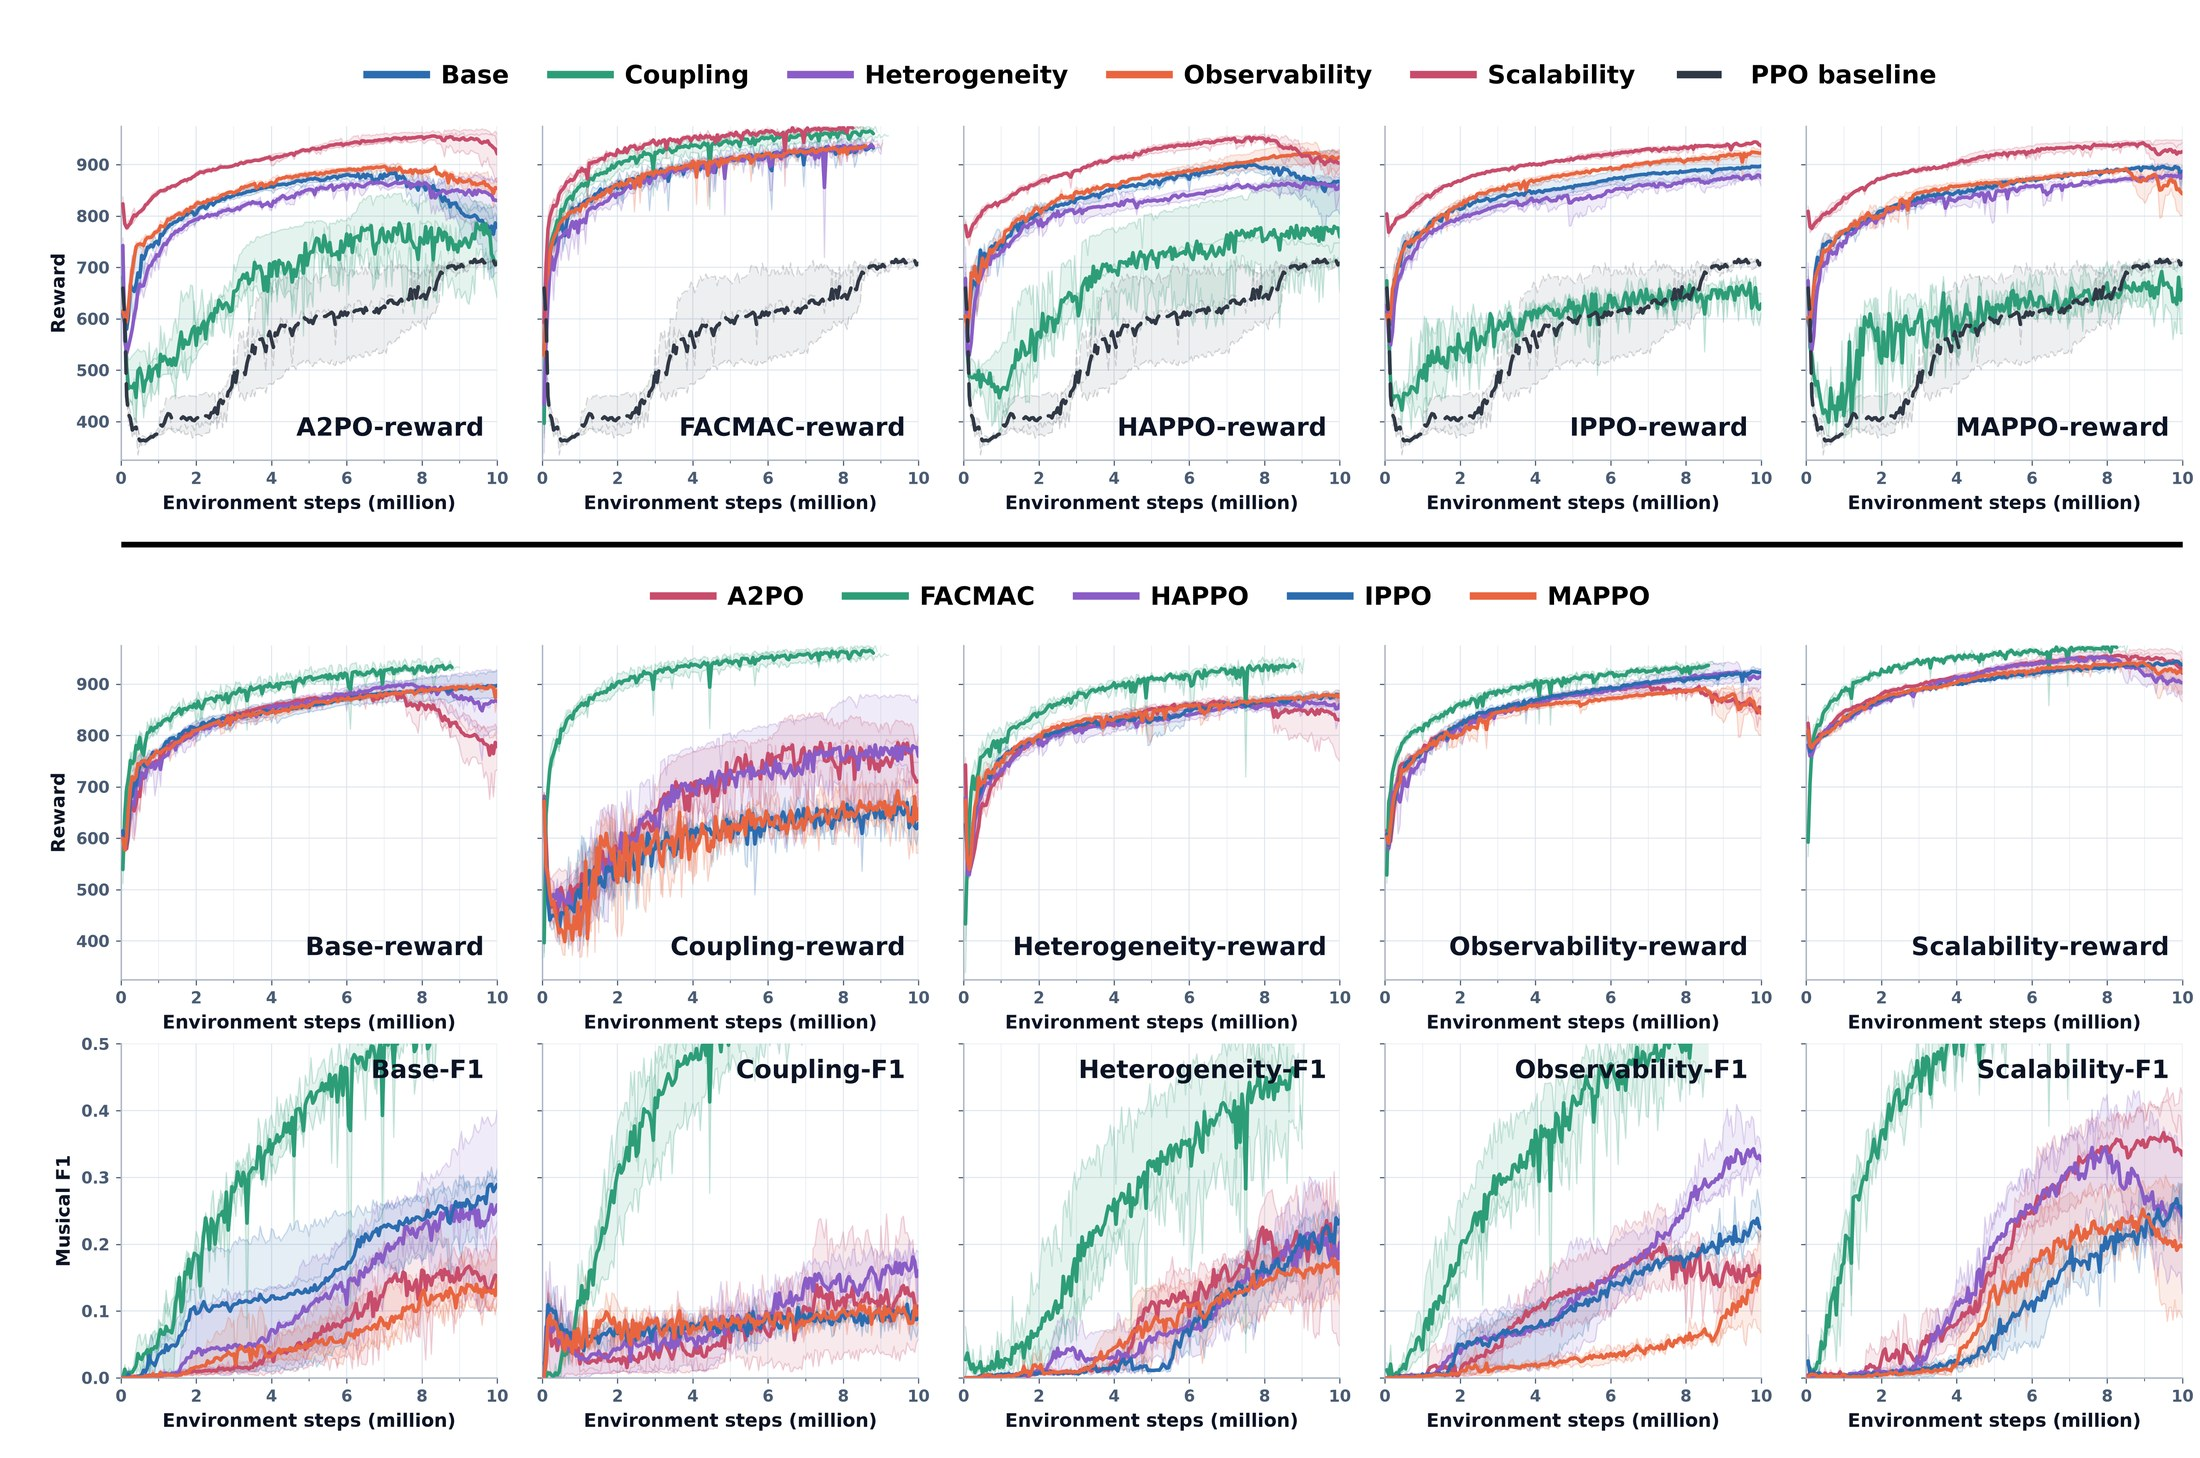
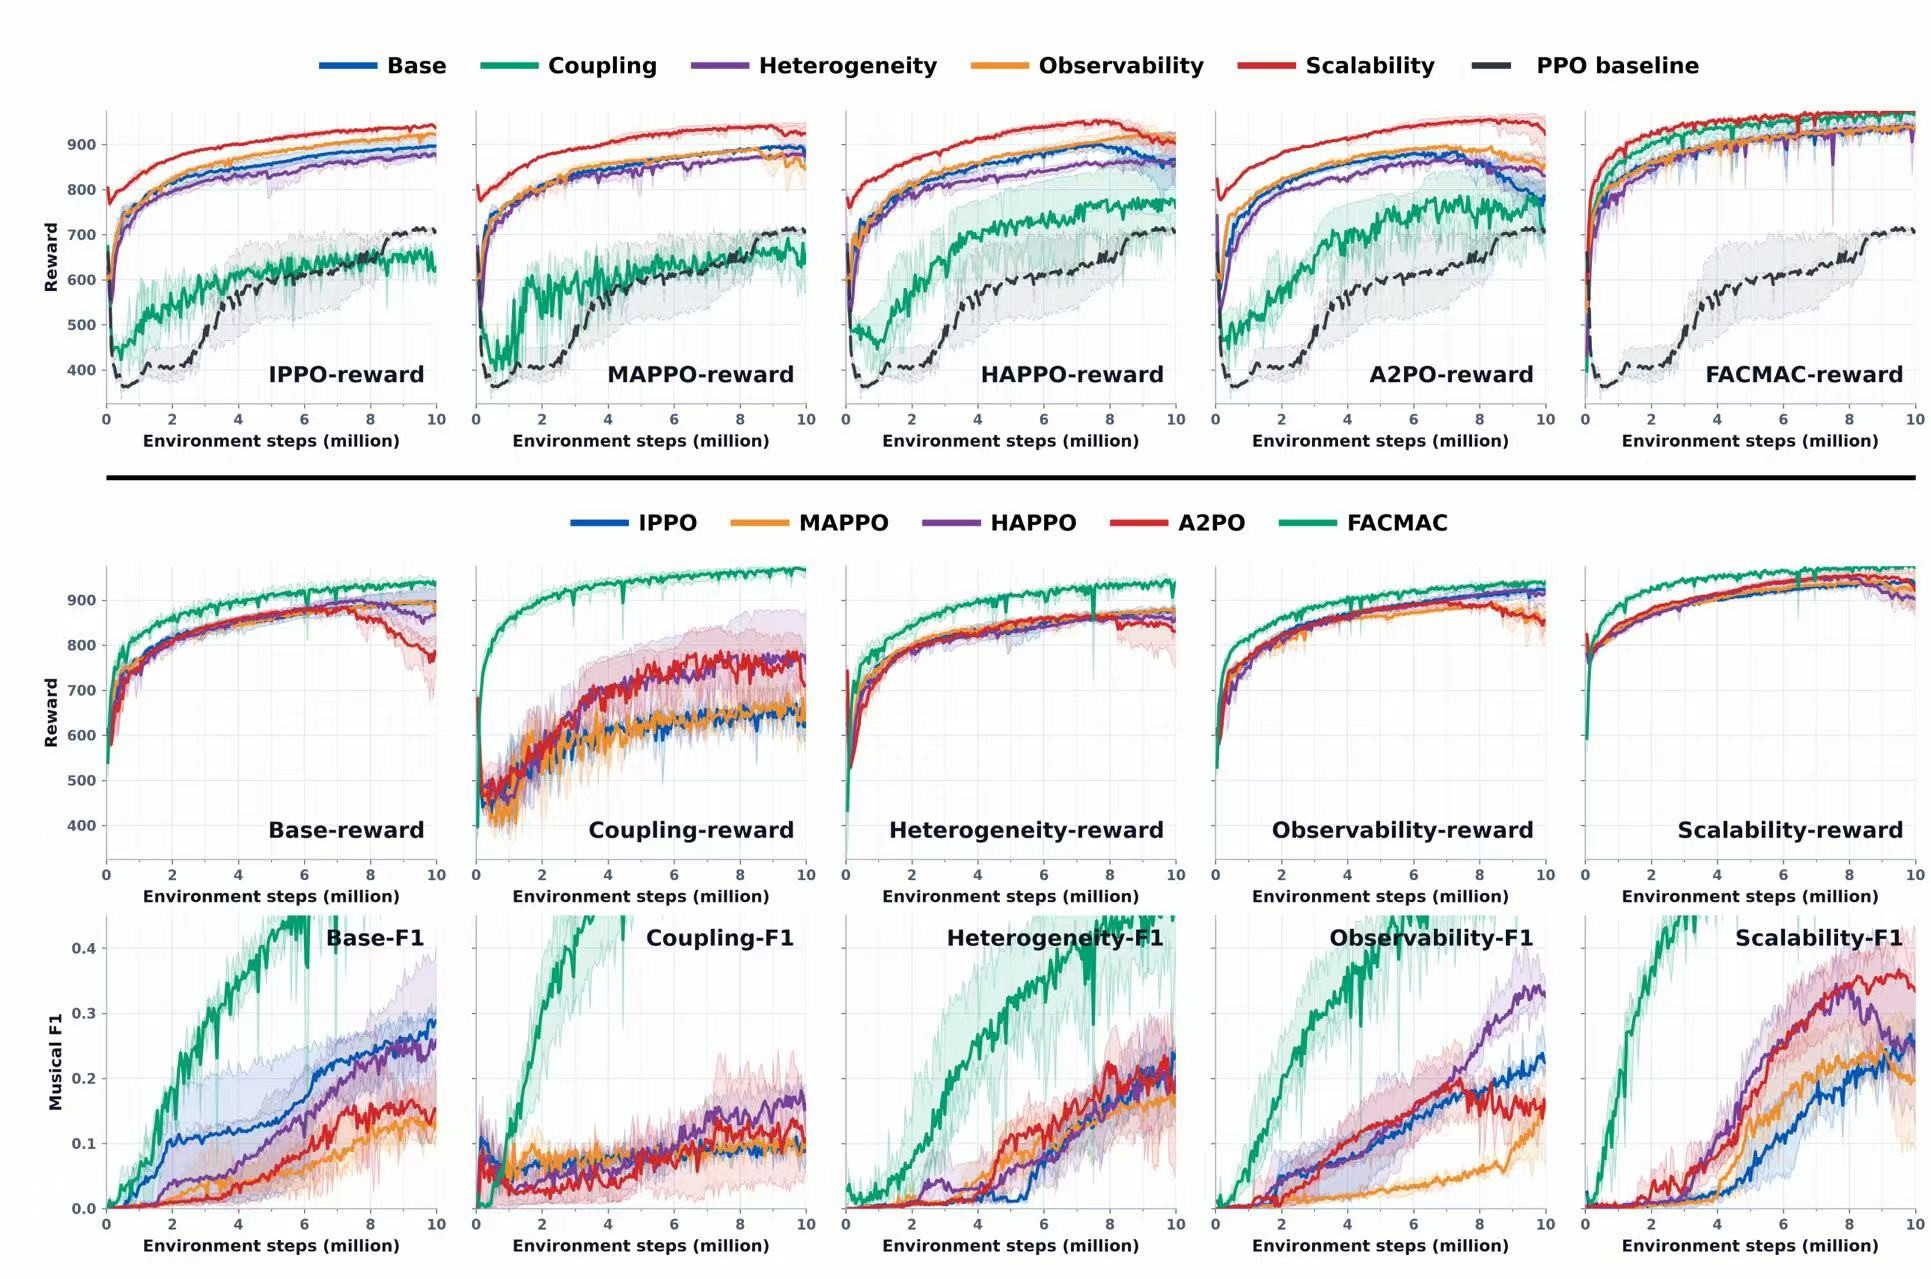
Update MARL result figures

diff --git a/index.html b/index.html
@@ -405,14 +405,14 @@
 
             <h3 class="results-title">Results</h3>
             <figure class="figure zoomable">
-              <img src="assets/res-marl.jpg" alt="Team return of IPPO, MAPPO, HAPPO, A2PO and FACMAC across five cooperation settings" loading="lazy" width="2200" height="1315" />
+              <img src="assets/res-marl.jpg" alt="Team return of IPPO, MAPPO, HAPPO, A2PO and FACMAC across five cooperation settings" loading="lazy" width="2142" height="1280" />
               <figcaption><b>Figure 9:</b> Task-wise training performance of IPPO, MAPPO, HAPPO, A2PO, and FACMAC on four-hand Winter Wind across the Base task and four SCHO variants, with centralized PPO as a reference. Compared with Base, Scalability and Observability generally improve performance, while Heterogeneity and especially Coupling make policy learning more difficult; Coupling most clearly differentiates the algorithms.</figcaption>
             </figure>
             <p class="takeaway"><b>Takeaway.</b> More agents can be beneficial: with the same four hands, performance improves from centralized PPO with one agent, to the two-agent Base setting, and further to the four-agent Scalability setting.</p>
             <details class="more">
               <summary>More results: team return and musical F1 per task</summary>
               <figure class="figure zoomable">
-                <img src="assets/res-marl-detail.jpg" alt="Detailed MARL results: team return and musical F1 per algorithm and task" loading="lazy" width="2200" height="1458" />
+                <img src="assets/res-marl-detail.jpg" alt="Detailed MARL results: team return and musical F1 per algorithm and task" loading="lazy" width="1931" height="1279" />
                 <figcaption><b>Figure 23:</b> Detailed MARL results. The first row compares task-wise team return per algorithm; the second and third rows compare team return and musical F1 across algorithms for each task.</figcaption>
               </figure>
             </details>
